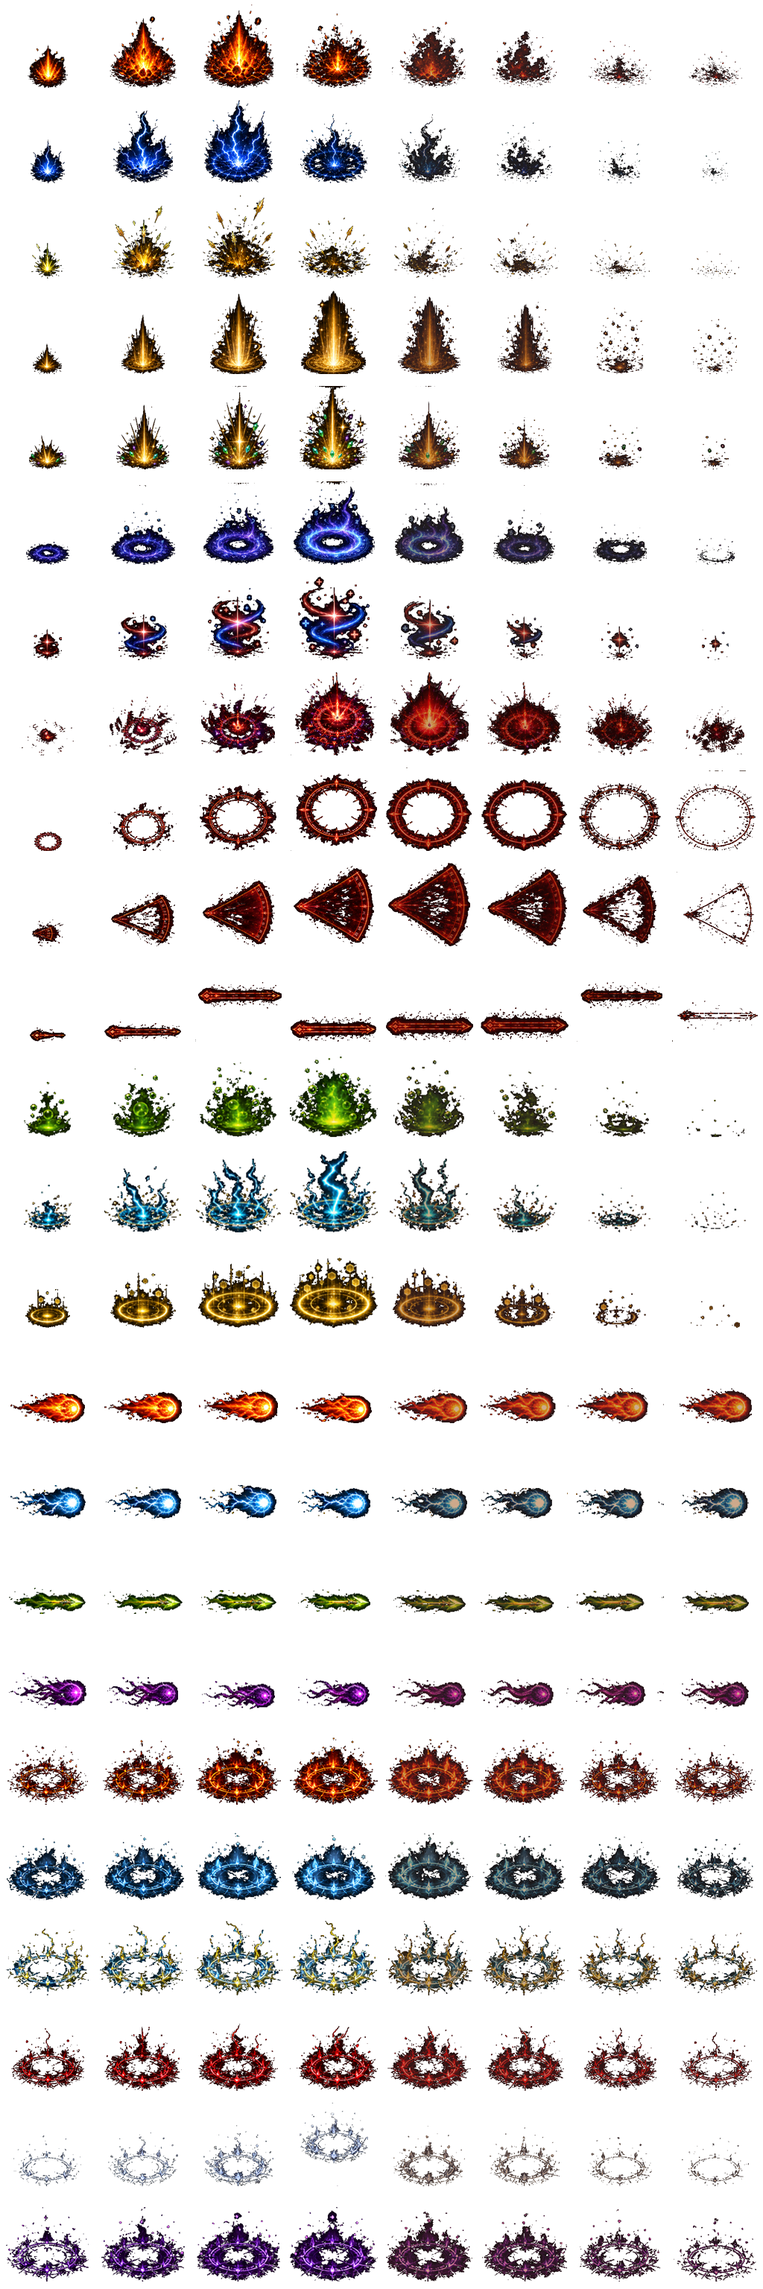
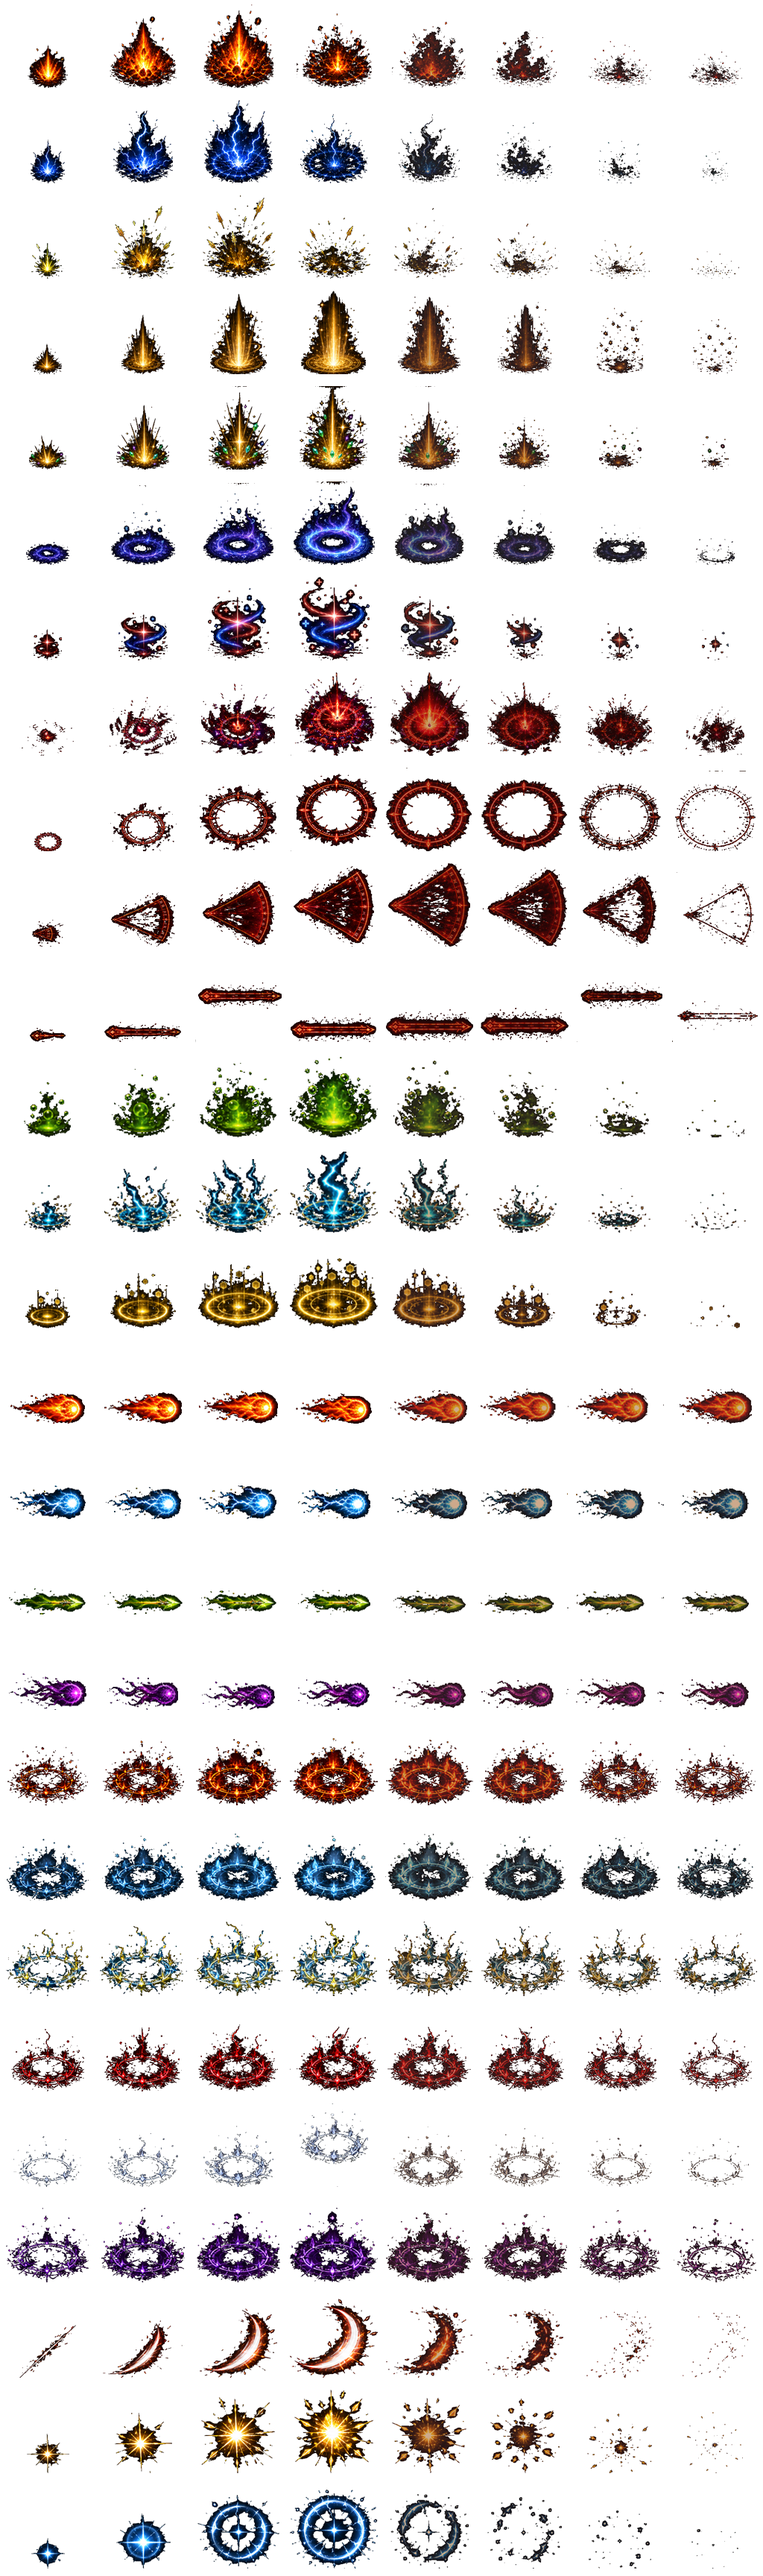
Add combat hit feedback VFX

diff --git a/game.js b/game.js
@@ -1083,6 +1083,12 @@ const PROJECTILE_VFX = {
     tentacle: 'tentacleProjectile'
 };
 
+const COMBAT_FEEDBACK_VFX = {
+    meleeSlash: 'meleeSlashHit',
+    criticalHit: 'criticalHitBurst',
+    guardFlash: 'guardFlash'
+};
+
 const ELITE_AFFIX_AURA_VFX = {
     fire_enchanted: 'affixFireAura',
     cold_enchanted: 'affixColdAura',
@@ -9617,14 +9623,18 @@ function spawnEnemyTimer() {
 }
 
 function takeDamage(e, dmg, isSkillDamage = false) {
+    const feedbackAngle = Math.atan2(e.y - player.y, e.x - player.x);
+
     // 幽灵闪避检测
     if (e.dodgeChance && Math.random() < e.dodgeChance) {
+        spawnVfxEffect(COMBAT_FEEDBACK_VFX.guardFlash, e.x, e.y - 8, 0.7, feedbackAngle);
         createDamageNumber(e.x, e.y - 20, "闪避!", '#aaaaaa');
         return;
     }
     if (e.blockChance && !isSkillDamage && Math.random() < e.blockChance) {
         e.hitFlashTimer = 0.06;
         Juice.hit(e, false, false);
+        spawnVfxEffect(COMBAT_FEEDBACK_VFX.guardFlash, e.x, e.y - 8, 0.8, feedbackAngle);
         createDamageNumber(e.x, e.y - 20, "格挡!", '#dddddd');
         AudioSys.play('melee_hit');
         return;
@@ -9633,7 +9643,7 @@ function takeDamage(e, dmg, isSkillDamage = false) {
     // 处理新的伤害系统：支持物理和元素伤害
     let totalDamage = 0;
     const isCrit = typeof dmg === 'object' && dmg.isCrit;
-    const angle = Math.atan2(e.y - player.y, e.x - player.x);
+    const angle = feedbackAngle;
 
     if (typeof dmg === 'number') {
         // 兼容旧代码：纯数值伤害
@@ -9742,7 +9752,11 @@ function takeDamage(e, dmg, isSkillDamage = false) {
     if (isSkillDamage) {
         createImpactParticles(e.x, e.y, particleColor, isCrit ? 8 : 4);
     } else {
+        spawnVfxEffect(COMBAT_FEEDBACK_VFX.meleeSlash, e.x, e.y - 10, isCrit ? 1.02 : 0.88, angle);
         createMonsterImpactParticles(e, isCrit);
+    }
+    if (isCrit) {
+        spawnVfxEffect(COMBAT_FEEDBACK_VFX.criticalHit, e.x, e.y - 12, 0.95, angle);
     }
 
     // 触发打击感
@@ -11834,6 +11848,8 @@ function playerTakeDamage(rawDamage, source, options = {}) {
         }
 
         if (shieldAbsorbed > 0) {
+            const sourceAngle = source ? Math.atan2(player.y - source.y, player.x - source.x) : 0;
+            spawnVfxEffect(COMBAT_FEEDBACK_VFX.guardFlash, player.x, player.y - 12, 0.82, sourceAngle);
             spawnVfxEffect('shieldPulseStatus', player.x, player.y + 4, 0.75, 0);
             createDamageNumber(player.x, player.y - 50, `护盾-${shieldAbsorbed}`, '#66ccff');
         }

diff --git a/vfx-manifest.js b/vfx-manifest.js
@@ -1,5 +1,5 @@
 window.VFX_SPRITE_MANIFEST = {
-    sheet: 'vfx_sheet.png?v=202605051750',
+    sheet: 'vfx_sheet.png?v=202605051855',
     effects: {
         fireballImpact: {
             row: 0,
@@ -263,6 +263,39 @@ window.VFX_SPRITE_MANIFEST = {
             renderSize: 74,
             pivotX: 64,
             pivotY: 92,
+            blend: 'lighter'
+        },
+        meleeSlashHit: {
+            row: 24,
+            frameWidth: 128,
+            frameHeight: 128,
+            frameCount: 8,
+            fps: 26,
+            renderSize: 74,
+            pivotX: 64,
+            pivotY: 72,
+            blend: 'lighter'
+        },
+        criticalHitBurst: {
+            row: 25,
+            frameWidth: 128,
+            frameHeight: 128,
+            frameCount: 8,
+            fps: 26,
+            renderSize: 82,
+            pivotX: 64,
+            pivotY: 72,
+            blend: 'lighter'
+        },
+        guardFlash: {
+            row: 26,
+            frameWidth: 128,
+            frameHeight: 128,
+            frameCount: 8,
+            fps: 24,
+            renderSize: 72,
+            pivotX: 64,
+            pivotY: 72,
             blend: 'lighter'
         }
     }

diff --git a/index.html b/index.html
@@ -765,8 +765,8 @@
     <script src="enemy-system.js?v=202605051730"></script>
     <script src="abyss-system.js?v=202601061400"></script>
     <script src="auto-battle.js?v=202601101200"></script>
-    <script src="vfx-manifest.js?v=202605051750"></script>
-    <script src="game.js?v=202605051750"></script>
+    <script src="vfx-manifest.js?v=202605051855"></script>
+    <script src="game.js?v=202605051855"></script>
     <script src="pocketbase.umd.js"></script>
     <script src="online.js?v=202605010330"></script>
     <script src="market.js?v=202605011345"></script>

diff --git a/sprite-vfx-viewer.html b/sprite-vfx-viewer.html
@@ -4,7 +4,7 @@
     <meta charset="utf-8">
     <meta name="viewport" content="width=device-width, initial-scale=1">
     <title>VFX 图集预览</title>
-    <script src="vfx-manifest.js?v=202605051610"></script>
+    <script src="vfx-manifest.js?v=202605051855"></script>
     <style>
         :root {
             color-scheme: dark;

diff --git a/docs/sprite-pipeline-adoption.md b/docs/sprite-pipeline-adoption.md
@@ -66,6 +66,10 @@ Boss 施法蓄力、圆形危险区、扇形危险区和直线危险区作为第
 
 精英词缀已经影响数值和行为，但只靠头顶文字与小图标，真实战斗中不够即时。第七批不为 12 个词缀各做一套特效，而是归并成火焰、冰冷、闪电、威胁、防御和奥术 6 类脚底 Aura；同一只精英怪最多叠加 2 个 Aura，既保留危险识别，又避免画面过载。接入点放在怪物接触阴影之后、角色本体之前，确保光环贴地且不遮挡血条、名字和词缀文字。
 
+## 第八条完整闭环：战斗命中反馈包
+
+普攻、暴击和防御反馈属于同一个伤害结算层，可以合批做，但只接视觉反馈，不改命中率、格挡率、暴击率或伤害数值。普攻成功造成伤害后播放短斩击，暴击叠加金色爆点；敌人闪避/格挡和玩家护盾吸收播放蓝白防御闪光。这样近战手感、暴击确认和防御成功原因都更清楚，同时避免把技能、AI 或掉落系统混进同一批。
+
 ## 美术资产纪律
 
 火球命中爆炸 VFX 已从程序占位图替换为 AI 生成位图资产。后续新增正式 VFX 时，默认流程是：先生成或绘制高质量位图源图，再用 `tools/promote-ai-vfx-sheet.ps1` 晋升为游戏图集，最后通过 `tools/validate-sprite-assets.ps1` 和预览器验收。不要把程序生成图作为正式美术提交。

diff --git a/CHANGELOG.md b/CHANGELOG.md
@@ -16,6 +16,7 @@
 - 补齐中毒、闪电过载和护盾施放/吸收的状态触发 VFX；冰冻、减速和护盾常驻光环沿用现有表现，避免重复堆叠。
 - 新增火球、闪电球、多重射击和 Boss 触手的飞行投射物 VFX，让发射到命中的视觉质感保持一致。
 - 新增精英怪词缀脚底 Aura，按火焰、冰冷、闪电、威胁、防御和奥术六类归并显示，提高战斗中危险来源可读性。
+- 新增普攻斩击、暴击爆点和防御闪光 VFX，补齐近战命中、暴击和格挡/闪避/护盾吸收的战斗反馈。
 
 ## v7.09 - 2026-05-01
 
